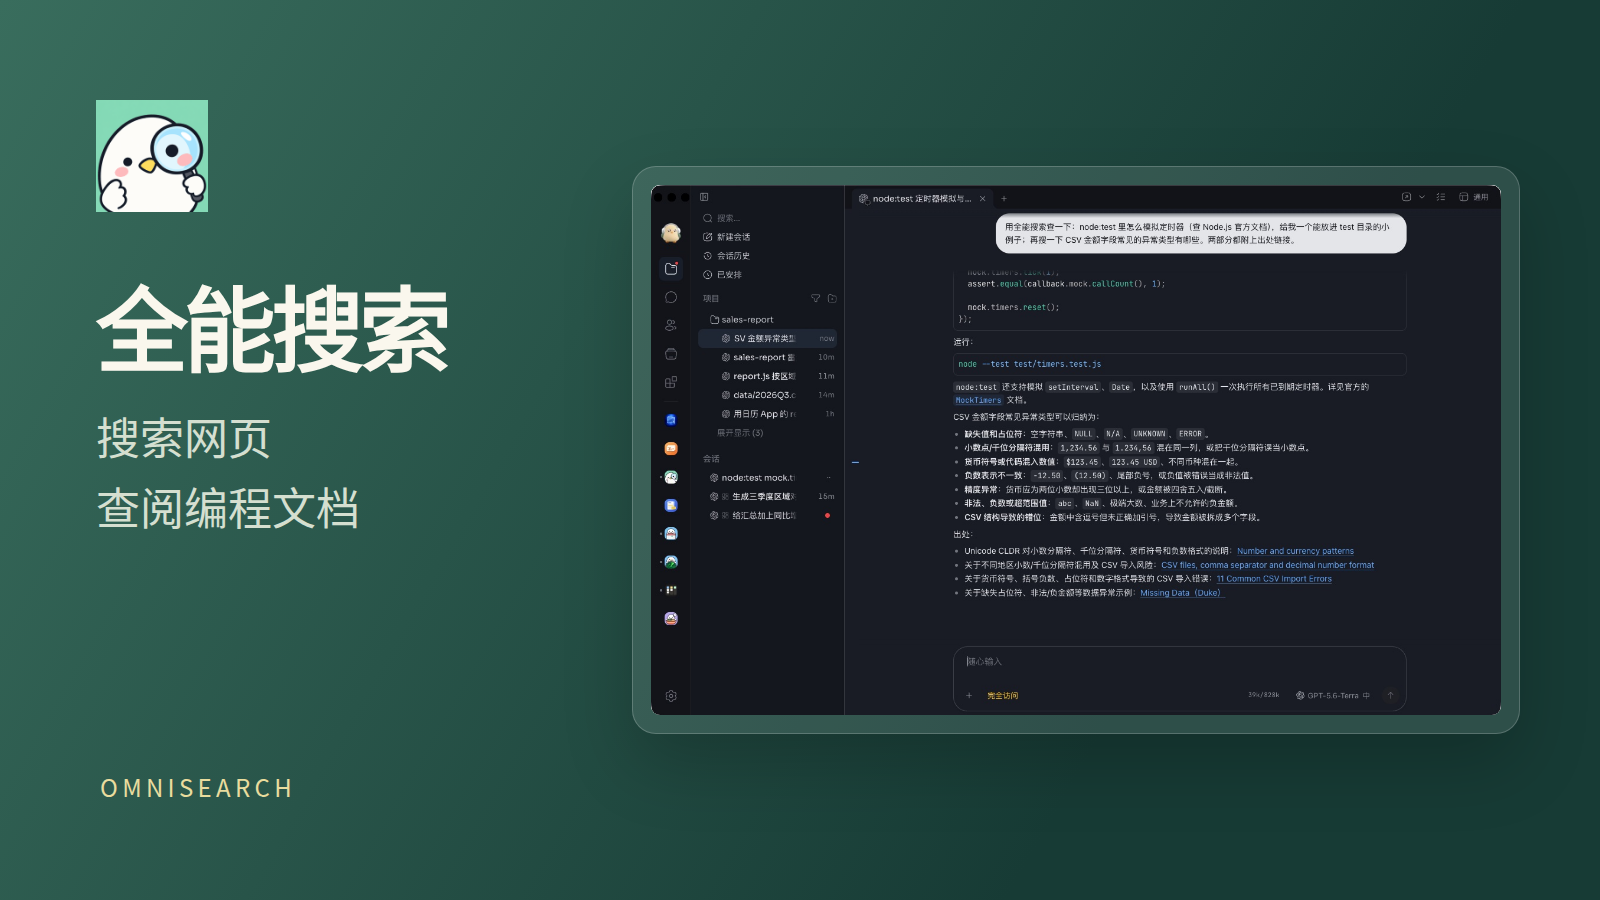
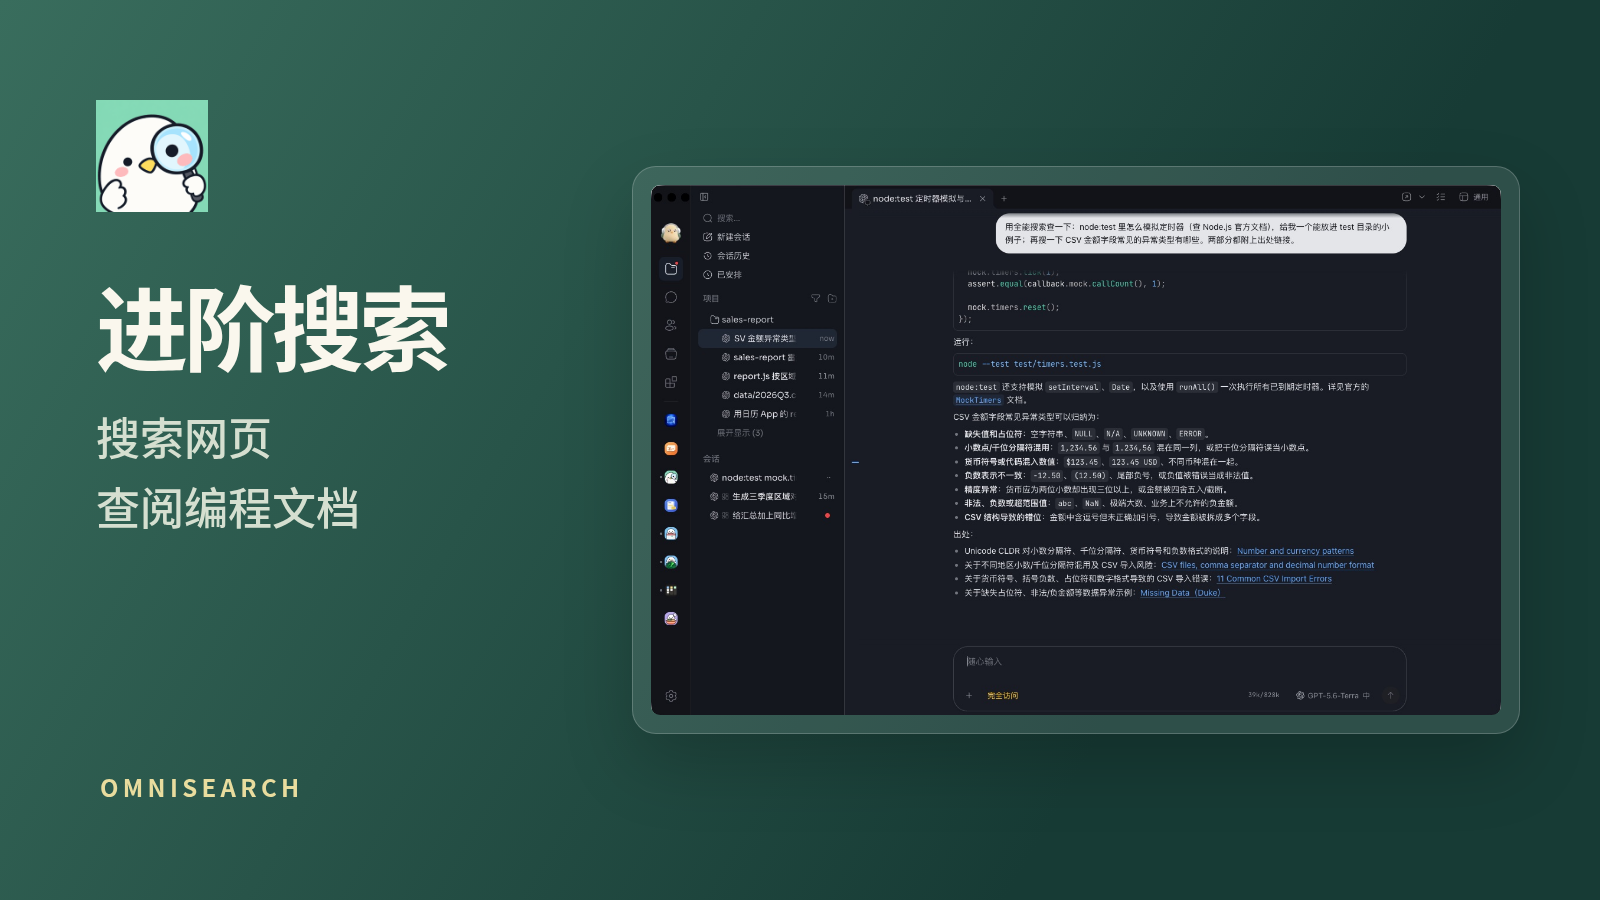
Omnisearch 0.4.1: Chinese name 进阶搜索, English name unchanged
The Chinese name 全能搜索 read like gugu's built-in search, so people
worried their agents could not search without it. It is now 进阶搜索;
the English name stays Omnisearch, and English text that named the App
in Chinese (agent tool descriptions, the no-key error, the withdrawn
permission note) now says Omnisearch.

Changed region(s): [[0.0625, 0.3111, 0.2812, 0.4356], [0.0625, 0.4667, 0.2188, 0.5911], [0.0625, 0.84, 0.1875, 0.9022]]

diff --git a/sources/omnisearch/app/settings.js b/sources/omnisearch/app/settings.js
@@ -5,7 +5,7 @@ import { CAPABILITIES, SERVICES, SETTINGS_FILE, parseSettings, serviceFor } from
 const host = window.gugu;
 const TEXT = {
 	zh: {
-		title: '全能搜索', canUse: (n) => `agent 现在能用 ${n} 项`, none: '还没有能用的', off: '不使用',
+		title: '进阶搜索', canUse: (n) => `agent 现在能用 ${n} 项`, none: '还没有能用的', off: '不使用',
 		configured: '已配置', needKey: '需 key', apiKey: 'API 密钥', getKey: '获取密钥', site: '官网',
 		check: '检查', change: '更换', cancel: '取消', saveCheck: '保存并检查', paste: (s) => `粘贴 ${s} 的 API 密钥`,
 		works: (ms) => `能用 · 刚才试过一次，${(ms / 1000).toFixed(1)} 秒`, fails: (r) => `不能用：${r}`, checking: '正在试一次…',
@@ -13,9 +13,9 @@ const TEXT = {
 		advanced: '高级设置', firecrawlHost: '自建 Firecrawl 地址', firecrawlHostHelp: '留空就用 Firecrawl 官方的服务。', save: '保存',
 		sentTo: (url) => `这把 key 会发到 ${url}，不是 Firecrawl 官方的服务。`,
 		where: (p) => `设置存在这台电脑上：${p}。agent 也可以直接改这个文件。`, elsewhere: '在电脑上设置',
-		elsewhereWhy: '全能搜索给电脑上的 agent 用，手机上跑不了。到电脑上的咕咕里打开它，在那里选服务、填密钥。',
+		elsewhereWhy: '进阶搜索给电脑上的 agent 用，手机上跑不了。到电脑上的咕咕里打开它，在那里选服务、填密钥。',
 		withdrawn: 'agent 现在用不了',
-		withdrawnWhy: '「给 agent 工具」这项权限被收回了，agent 现在一项都用不了。在 App 管理里全能搜索的权限中把它打开，就恢复了。',
+		withdrawnWhy: '「给 agent 工具」这项权限被收回了，agent 现在一项都用不了。在 App 管理里进阶搜索的权限中把它打开，就恢复了。',
 		sep: '、',
 	},
 	en: {
@@ -29,7 +29,7 @@ const TEXT = {
 		where: (p) => `Settings live on this computer: ${p}. Agents may edit that file too.`, elsewhere: 'Set up on a computer',
 		elsewhereWhy: 'Omnisearch is for the agents on your computer and does not run on a phone. Open it in gugu on your computer to pick services and add keys.',
 		withdrawn: 'Agents cannot use it now',
-		withdrawnWhy: 'The permission to give agents tools was taken back, so agents can use none of these now. Turn it back on under 全能搜索’s permissions in Apps.',
+		withdrawnWhy: 'The permission to give agents tools was taken back, so agents can use none of these now. Turn it back on under Omnisearch’s permissions in Apps.',
 		sep: ', ',
 	},
 };

diff --git a/sources/omnisearch/test/omnisearchLaunch.test.ts b/sources/omnisearch/test/omnisearchLaunch.test.ts
@@ -1,5 +1,5 @@
 // @vitest-environment node
-// 全能搜索 App(app/):launch.mjs 是咕咕和 omnisearch 之间的那一层。
+// 进阶搜索 App(app/):launch.mjs 是咕咕和 omnisearch 之间的那一层。
 // 这里用真的 launch.mjs、真的 server.mjs 起进程,按 MCP stdio 跟它说话;判的是 agent 看到什么、没 key 时起不起 omnisearch。
 // omnisearch 起来时自己在 stderr 说「Omnisearch MCP server running on stdio」—— 这一句就是「起没起」的判据。
 import { spawn, type ChildProcessWithoutNullStreams } from 'node:child_process'
@@ -66,11 +66,11 @@ const toolNames = (answer: { result?: Record<string, unknown> }) =>
     .map((tool) => tool.name)
     .sort()
 
-describe('全能搜索 launch.mjs', () => {
+describe('进阶搜索 launch.mjs', () => {
   it('no key anywhere: agents get no tool, the page still gets its status, and omnisearch is never started', async () => {
     const app = launch()
     // Why agents get nothing, in initialize's instructions: what gugu shows where it says this App gives agents no tools.
-    expect((await app.open()).result?.instructions).toBe('未配置搜索服务的 API key，请在全能搜索的设置页填写。')
+    expect((await app.open()).result?.instructions).toBe('未配置搜索服务的 API key，请在进阶搜索的设置页填写。')
     expect(toolNames(await app.ask('tools/list'))).toEqual([])
     const status = await app.ask('tools/call', { name: 'provider_status', arguments: {} })
     const structured = status.result?.structuredContent as { settings_path: string; services: Record<string, boolean> }
@@ -157,7 +157,7 @@ describe('全能搜索 launch.mjs', () => {
   }, 30_000)
 })
 
-describe('全能搜索 catalog.mjs: which service a capability uses', () => {
+describe('进阶搜索 catalog.mjs: which service a capability uses', () => {
   const webSearch = CAPABILITIES.find((c) => c.id === 'web_search')!
 
   it('the person\'s pick when it has a key; otherwise the first service with a key; off is off; no key, nothing', () => {

diff --git a/scripts/promo/omnisearch.html b/scripts/promo/omnisearch.html
@@ -2,7 +2,7 @@
 <html lang="zh-CN">
   <meta charset="utf-8" />
   <meta name="viewport" content="width=1600, initial-scale=1" />
-  <title>全能搜索 · 市场推广图</title>
+  <title>进阶搜索 · 市场推广图</title>
   <style>
     :root {
       --canvas-width: 1600px;
@@ -45,14 +45,14 @@
     .screen { height: 530px; overflow: hidden; border-radius: 9px; background: white; }
     .screen img { display: block; width: 100%; height: auto; }
   </style>
-  <main class="promo" aria-label="全能搜索：搜索网页查阅编程文档">
+  <main class="promo" aria-label="进阶搜索：搜索网页查阅编程文档">
     <div class="brand">
       <img class="icon" src="../../sources/omnisearch/app/icon.png" alt="" />
-      <h1>全能搜索</h1>
+      <h1>进阶搜索</h1>
       <p class="message">搜索网页<br />查阅编程文档</p>
     </div>
-    <figure class="product" aria-label="全能搜索真实界面截图">
-      <div class="screen"><img src="../../sources/omnisearch/app/store/screenshots/1.jpg" alt="全能搜索已发布的真实产品画面" /></div>
+    <figure class="product" aria-label="进阶搜索真实界面截图">
+      <div class="screen"><img src="../../sources/omnisearch/app/store/screenshots/1.jpg" alt="进阶搜索已发布的真实产品画面" /></div>
     </figure>
     <p class="name-en">OMNISEARCH</p>
   </main>

diff --git a/sources/omnisearch/app/settings.html b/sources/omnisearch/app/settings.html
@@ -3,14 +3,14 @@
 <head>
 <meta charset="utf-8">
 <meta name="viewport" content="width=device-width, initial-scale=1">
-<title>全能搜索</title>
+<title>进阶搜索</title>
 <link rel="stylesheet" href="settings.css">
 </head>
 <body>
 <div class="win">
   <header class="bar">
     <img class="ic" src="icon.png" alt="">
-    <h1 data-t="title">全能搜索</h1>
+    <h1 data-t="title">进阶搜索</h1>
     <span class="st" id="summary" role="status"></span>
   </header>
   <p class="notice" id="notice" role="status" hidden></p>

diff --git a/scripts/promo/README.md b/scripts/promo/README.md
@@ -38,3 +38,9 @@ it sits beside the template because it is cover material, not a gallery image. I
 the question and the card sit close together and stay legible in the frame. The template now caps the image at the frame's
 530 px height: an image narrower than 16:10 is centred instead of being stretched to full width and clipped at the bottom. The cover was rendered with Chromium 147 on Linux, with Noto Sans
 CJK SC (the template's first font) supplied through a private fontconfig. See `sources/data-lens/app/store/SOURCE.md`.
+
+## Omnisearch renamed 进阶搜索 (0.4.1)
+
+Only the Chinese name in `omnisearch.html` changed. The cover was re-rendered with Chromium 147 (Playwright headless shell) on
+Linux, with Noto Sans CJK SC supplied through a private fontconfig. Rendering the previous template the same way reproduced
+the previous cover, so nothing but the name moved. The product screenshot is unchanged.

diff --git a/README.md b/README.md
@@ -95,7 +95,7 @@ non-author review. Companion specifications and producer live in GUYI-AI/gugu-de
   - devDependencies 里有 `playwright` 的(有真浏览器用例),先装 Chromium。
   - 咕咕办公打包进去的库(`app/skills/office/vendor/`)由 `vendor/build.mjs` 照钉住的 lockfile 打出来,它的 `npm test` 先跑
     `node vendor/build.mjs --check`:重打一遍，逐字节和仓里的比。
-  - 全能搜索的 `app/server/server.mjs` 由 `server-build/build.mjs` 从上游打出来(要 git、pnpm、网络，手动跑)。
+  - 进阶搜索的 `app/server/server.mjs` 由 `server-build/build.mjs` 从上游打出来(要 git、pnpm、网络，手动跑)。
 
 ## CI
 

diff --git a/sources/omnisearch/app/CHANGELOG.md b/sources/omnisearch/app/CHANGELOG.md
@@ -1,5 +1,9 @@
 # Changelog
 
+## 0.4.1
+
+The Chinese name is now 进阶搜索 (was 全能搜索), so people can tell it is an optional App rather than gugu's built-in search; the English name stays Omnisearch. English messages that named the App in Chinese now say Omnisearch.
+
 ## 0.4.0
 
 App interface 25: nothing else changes.

diff --git a/sources/omnisearch/server-build/README.md b/sources/omnisearch/server-build/README.md
@@ -1,4 +1,4 @@
-# The search program of the preinstalled 全能搜索 App
+# The search program of the preinstalled 进阶搜索 App
 
 `app/server/server.mjs` is built, not written: one ES module bundling
 [spences10/mcp-omnisearch](https://github.com/spences10/mcp-omnisearch) (MIT, `server/LICENSE`) and its dependencies,

diff --git a/sources/omnisearch/app/store/whats-new.md b/sources/omnisearch/app/store/whats-new.md
@@ -1,1 +1,1 @@
-适配 App 接口 25，功能不变。
+中文名改为「进阶搜索」（原「全能搜索」）：它是可选的搜索 App，不是咕咕自带的搜索能力。英文名仍是 Omnisearch，功能不变。

diff --git a/sources/omnisearch/app/README.md b/sources/omnisearch/app/README.md
@@ -1,4 +1,4 @@
-# 全能搜索
+# 进阶搜索
 
 agent 的网页与文档搜索
 
